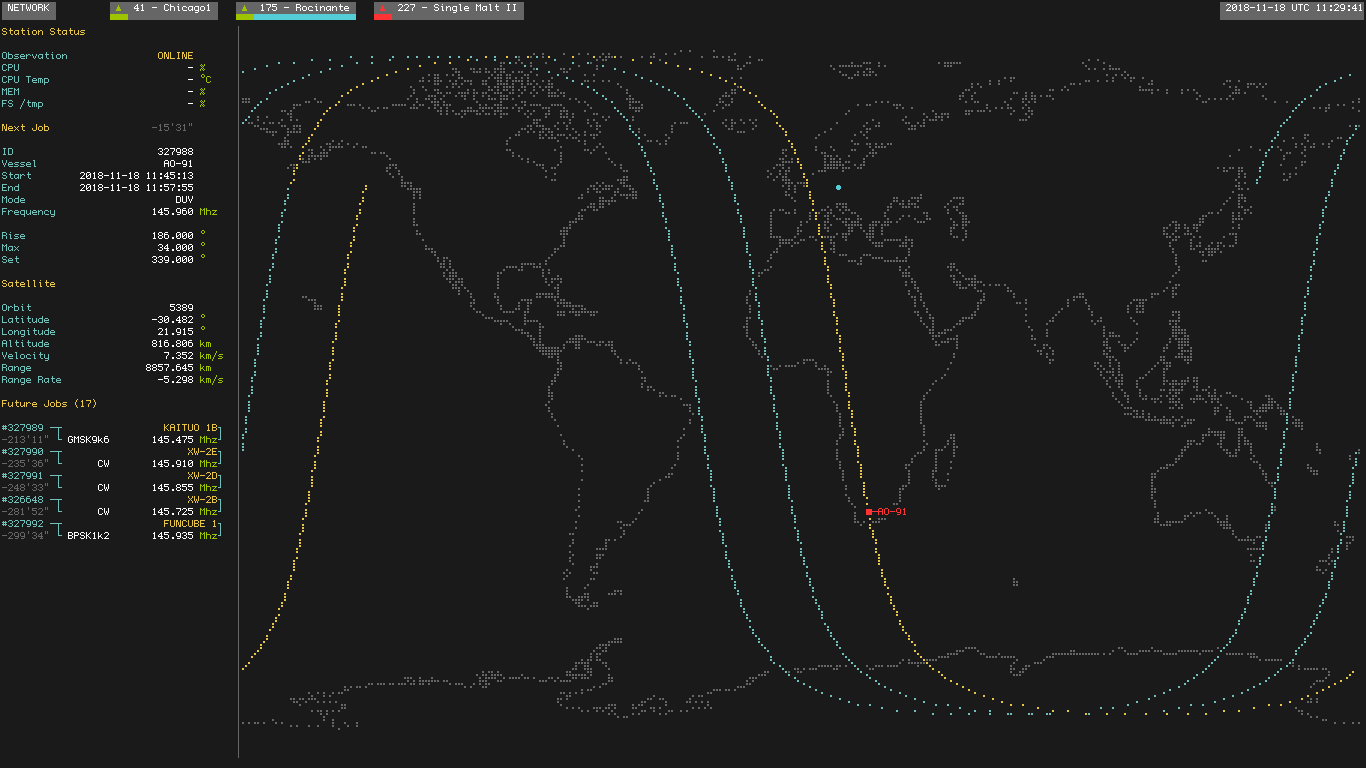
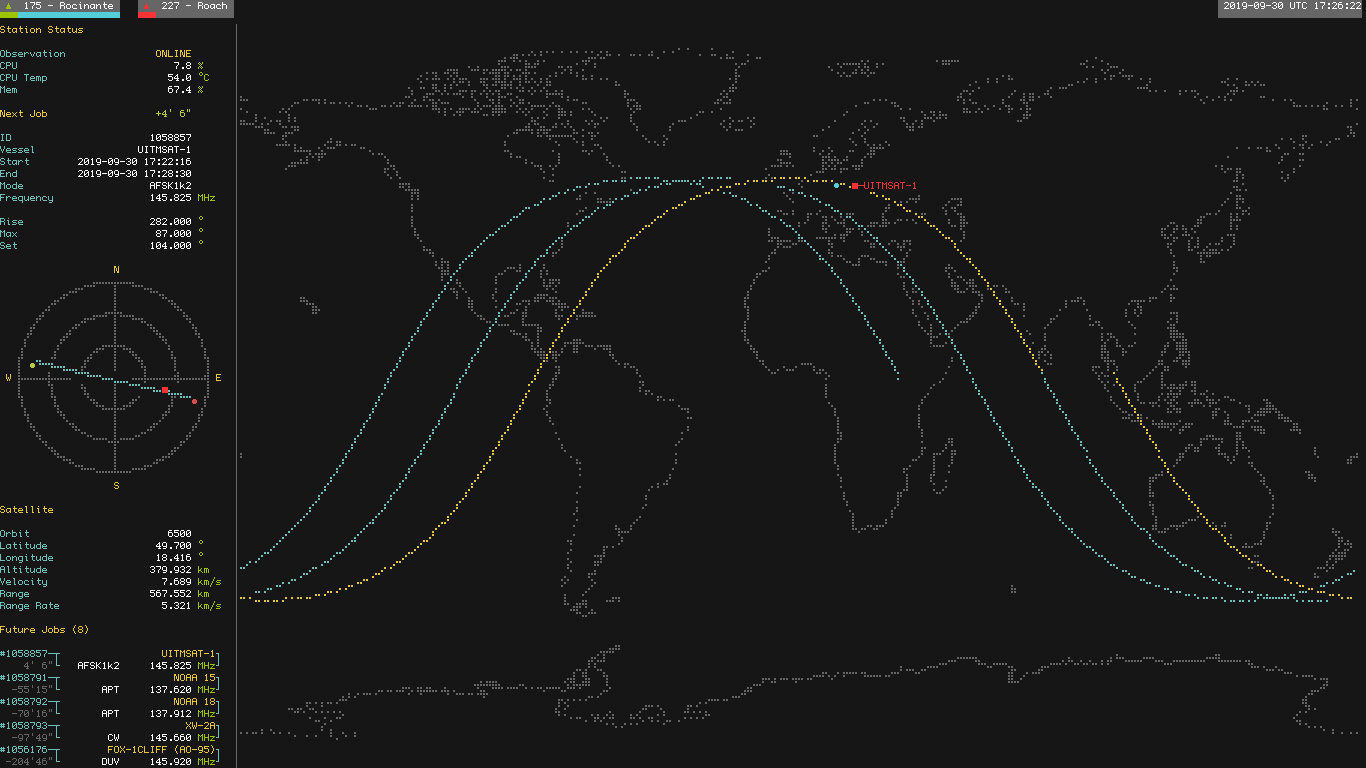
adds polar plot

diff --git a/monitor/src/ui.rs b/monitor/src/ui.rs
@@ -9,16 +9,18 @@ use tui::backend::*;
 use tui::layout::{Alignment, Constraint, Direction, Layout, Rect};
 use tui::style::{Color, Style};
 use tui::symbols::DOT;
-use tui::widgets::canvas::{Canvas, Map, MapResolution, Points};
+use tui::widgets::canvas::{Canvas, Context, Line, Map, MapResolution, Points};
 use tui::widgets::{Block, Borders, Paragraph, Text, Widget};
 use tui::Frame;
 use tui::Terminal;
 
+use std::f64::consts;
 use std::io;
 use std::sync::mpsc::{sync_channel, Receiver, RecvTimeoutError, SyncSender};
 use std::thread;
 
 use crate::event::Event;
+use crate::job::Job;
 use crate::satnogs;
 use crate::settings::Settings;
 use crate::state::State;
@@ -161,10 +163,13 @@ impl Ui {
                     .block(Block::default())
                     .render(&mut f, rows[0]);
 
-                let rect = render_station_view(&mut f, body[0], &station);
-                let rect = render_next_job_view(&mut f, rect, &station);
-                let rect = render_satellite_view(&mut f, rect, &station);
-                let rect = render_future_jobs_view(&mut f, rect, &station);
+                let mut rect = render_station_view(&mut f, body[0], &station);
+                rect = render_next_job_view(&mut f, rect, &station);
+                if let Some(job) = station.jobs.iter().next() {
+                    rect = render_polar_plot(&mut f, rect, &job);
+                }
+                rect = render_satellite_view(&mut f, rect, &station);
+                rect = render_future_jobs_view(&mut f, rect, &station);
 
                 // to create the rest of the border we add an empty paragraph
                 Paragraph::new([].iter())
@@ -338,6 +343,119 @@ fn render_map_view<T: Backend>(
         .x_bounds([-180.0, 180.0])
         .y_bounds([-90.0, 90.0])
         .render(t, rect);
+}
+
+fn render_polar_plot<T: Backend>(t: &mut Frame<T>, rect: Rect, job: &Job) -> Rect {
+    let area = Layout::default()
+        .direction(Direction::Vertical)
+        .constraints([Constraint::Length(rect.width / 2), Constraint::Min(0)].as_ref())
+        .split(rect);
+
+    Canvas::default()
+        .paint(|ctx| {
+            ctx.draw(&Line {
+                x1: -100.0,
+                y1: 0.0,
+                x2: 100.0,
+                y2: 0.0,
+                color: COL_LIGHT_BG,
+            });
+            ctx.draw(&Line {
+                x1: 0.0,
+                y1: -100.0,
+                x2: 0.0,
+                y2: 100.0,
+                color: COL_LIGHT_BG,
+            });
+            draw_arc(ctx, COL_LIGHT_BG, (0.0, 0.0), 100.0, 0.0, 360.0, 360);
+            draw_arc(ctx, COL_LIGHT_BG, (0.0, 0.0), 100.0 / 3.0, 0.0, 360.0, 360);
+            draw_arc(ctx, COL_LIGHT_BG, (0.0, 0.0), 200.0 / 3.0, 0.0, 360.0, 360);
+
+            ctx.layer();
+            ctx.print(-110.0, 0.0, "W", Color::Yellow);
+            ctx.print(110.0, 0.0, "E", Color::Yellow);
+            ctx.print(0.0, 120.0, "N", Color::Yellow);
+            ctx.print(0.0, -110.0, "S", Color::Yellow);
+
+            ctx.layer();
+            let polar_track = &job
+                .vessel
+                .polar_track
+                .iter()
+                .map(|point| azel2xy(point))
+                .collect::<Vec<(f64, f64)>>();
+
+            let aos_point = polar_track.first();
+            let los_point = polar_track.last();
+
+            let points = Points {
+                coords: polar_track,
+                color: Color::Cyan,
+            };
+            ctx.draw(&points);
+
+            if let Some(aos_point) = aos_point {
+                ctx.print(aos_point.0, aos_point.1, DOT, Color::Green);
+            }
+
+            if let Some(los_point) = los_point {
+                ctx.print(los_point.0, los_point.1, DOT, Color::Red);
+            }
+
+            let now = Utc::now();
+            if now >= job.start() && now <= job.end() {
+                let position = azel2xy(&(job.sat().az_deg, job.sat().el_deg));
+                ctx.print(position.0, position.1, "■", Color::LightRed);
+            }
+        })
+        .x_bounds([-120.0, 120.0])
+        .y_bounds([-120.0, 120.0])
+        .block(
+            Block::default()
+                .borders(Borders::RIGHT)
+                .border_style(Style::default().fg(COL_DARK_CYAN)),
+        )
+        .render(t, area[0]);
+
+    area[1]
+}
+
+fn azel2xy(point: &(f64, f64)) -> (f64, f64) {
+    let az = point.0 * consts::PI / 180.0;
+    let el = point.1 * consts::PI / 180.0;
+
+    let radius = 100.0 - (2.0 * 100.0 * el) / consts::PI;
+    let x = radius * az.sin();
+    let y = radius * az.cos();
+
+    (x, y)
+}
+
+fn draw_arc(
+    ctx: &mut Context,
+    color: Color,
+    center: (f64, f64),
+    radius: f64,
+    a_min: f64,
+    a_max: f64,
+    segments: usize,
+) {
+    let mut points = vec![];
+
+    for segment in 0..=segments {
+        let angle = a_min + (segment as f64 / segments as f64) * (a_max - a_min);
+        points.push((
+            center.0 + angle.cos() * radius,
+            center.1 + angle.sin() * radius,
+        ));
+    }
+
+    let points = Points {
+        coords: &points.as_slice(),
+        color,
+    };
+
+    ctx.draw(&points);
 }
 
 fn render_station_view<T: Backend>(t: &mut Frame<T>, rect: Rect, station: &Station) -> Rect {

diff --git a/monitor/src/vessel.rs b/monitor/src/vessel.rs
@@ -1,8 +1,10 @@
+use chrono::{DateTime, Utc};
 use gpredict::{Location, Predict, Sat, Tle};
 use time;
 
 pub struct Vessel {
     pub ground_track: Vec<(f64, f64)>,
+    pub polar_track: Vec<(f64, f64)>,
     pub id: u64,
     pub qth: Location,
     sat: Sat,
@@ -10,7 +12,15 @@ pub struct Vessel {
 }
 
 impl Vessel {
-    pub fn new(id: u64, name: &str, tle1: &str, tle2: &str, qth: Location) -> Self {
+    pub fn new(
+        id: u64,
+        name: &str,
+        tle1: &str,
+        tle2: &str,
+        qth: Location,
+        aos: DateTime<Utc>,
+        los: DateTime<Utc>,
+    ) -> Self {
         let tle = Tle {
             name: name.to_string(),
             line1: tle1.to_string(),
@@ -18,10 +28,13 @@ impl Vessel {
         };
 
         let mut predict = Predict::new(&tle, &qth);
+        let polar_track = calc_polar_track(&mut predict, aos, los);
+
         predict.update(None);
 
         Vessel {
             ground_track: vec![],
+            polar_track,
             id,
             sat: predict.sat,
             tle: tle,
@@ -74,4 +87,23 @@ impl Vessel {
             current_orbit = predict.sat.orbit_nr;
         }
     }
+}
+
+pub fn calc_polar_track(
+    predict: &mut Predict,
+    aos: DateTime<Utc>,
+    los: DateTime<Utc>,
+) -> Vec<(f64, f64)> {
+    let mut polar_track = vec![];
+    let time_aos = time::at_utc(time::Timespec::new(aos.timestamp(), 0));
+    let time_los = time::at_utc(time::Timespec::new(los.timestamp(), 0));
+
+    let mut time = time_aos;
+    while time <= time_los {
+        predict.update(Some(time));
+        polar_track.push((predict.sat.az_deg, predict.sat.el_deg));
+        time = time + time::Duration::seconds(2);
+    }
+
+    polar_track
 }

diff --git a/monitor/src/job.rs b/monitor/src/job.rs
@@ -19,6 +19,8 @@ impl Job {
                 &job.tle1,
                 &job.tle2,
                 qth,
+                job.start,
+                job.end,
             ),
             job,
             observation,

diff --git a/README.md b/README.md
@@ -19,8 +19,8 @@ Note: the list is by no means complete or in any particular order.
 - [X] reduce API queries
 - [X] calculate ground tracks only when a new orbit begins
 - [ ] show satellite footprint (can be toggled)
-- [ ] polar plot
-- [ ] refactor station info, obs info, etc. into separate widgets
+- [X] polar plot
+- [X] refactor station info, obs info, etc. into separate widgets
 - [ ] detect supported colors and change palette accordingly
 - [X] build debian package for the RPi SatNOGS image
   - Check [releases](https://github.com/wose/satnogs-monitor/releases)

diff --git a/monitor/CHANGELOG.md b/monitor/CHANGELOG.md
@@ -7,6 +7,7 @@ and this project adheres to [Semantic Versioning](https://semver.org/spec/v2.0.0
 ## [Unreleased]
 ### Added
 - Command line parameter -a|--api to specify the SatNOGS network api endpoint.
+- Polar plot
 
 ### Changed
 - Display as many future jobs as possible.
